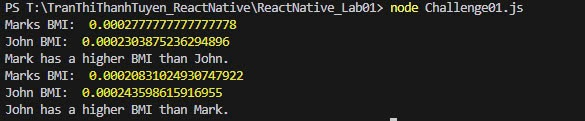
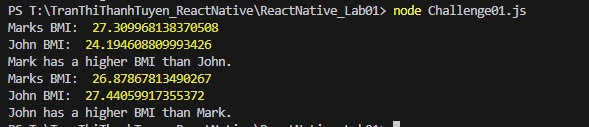
tuan 1 js --> challenge 02 Calculate BMI + image log Challenge02

diff --git a/ReactNative_Lab01/Challenge01_02.js b/ReactNative_Lab01/Challenge01_02.js
@@ -1,0 +1,49 @@
+const bmi = (height, weight) => {
+    return (weight / (height * height));
+}
+
+let markHigherBMI = (bmiMarks, bmiJohn) => {
+    if(bmiMarks > bmiJohn){
+        return true;
+    }
+
+    return false;
+}
+
+let Mark = {
+    height: 1.69,
+    weight: 78
+}
+
+let John = {
+    height: 1.95,
+    weight: 92
+}
+
+let bmiMarks = bmi(Mark.height, Mark.weight);
+let bmiJohn = bmi(John.height, John.weight)
+
+if(markHigherBMI(bmiMarks, bmiJohn)){
+    console.log(`Mark's BMI ${bmiMarks} is higher than John's ${bmiJohn}!`);
+}else{
+    console.log(`John's BMI ${bmiJohn} is higher thanMark's ${bmiMarks} !`);
+}
+
+Mark = {
+    height: 1.88,
+    weight: 95
+}
+
+John = {
+    height: 1.76,
+    weight: 85
+}
+
+bmiMarks = bmi(Mark.height, Mark.weight);
+bmiJohn = bmi(John.height, John.weight)
+
+if(markHigherBMI(bmiMarks, bmiJohn)){
+    console.log(`Mark's BMI ${bmiMarks} is higher than John's ${bmiJohn}!`);
+}else{
+    console.log(`John's BMI ${bmiJohn} is higher thanMark's ${bmiMarks} !`);
+}
